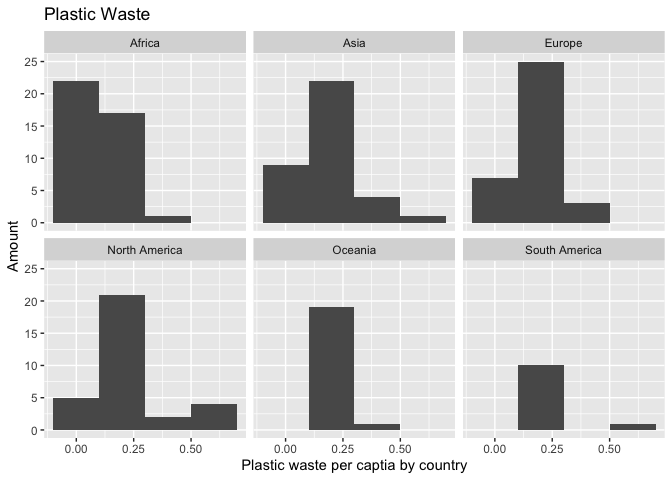
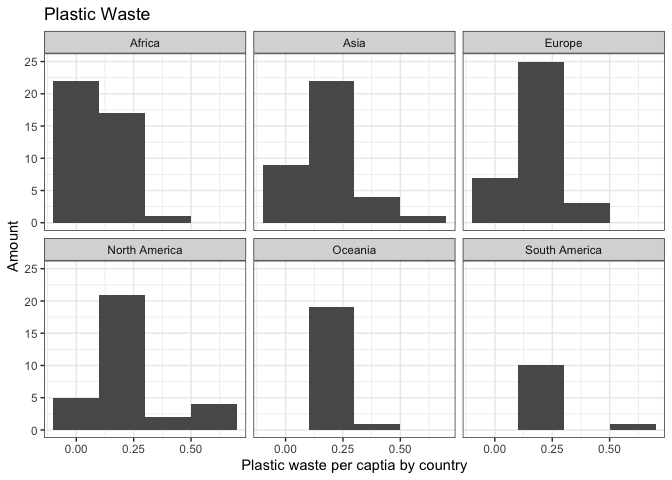
Final Version
Cleaned up some stuff. Made themes all black and white. Added name and date

diff --git a/lab-02.md b/lab-02.md
@@ -1,7 +1,7 @@
 Lab 02 - Plastic waste
 ================
-Insert your name here
-Insert date here
+Benjamin
+1/22/25
 
 ## Load packages and data
 
@@ -30,6 +30,7 @@ true_plastic <- plastic_waste %>%
 ggplot(data = true_plastic, aes(x = plastic_waste_per_cap)) +
   #To make them one graph by color, add in fill = continent after plastice_waste_per_cap
   geom_histogram(binwidth = 0.2) + facet_wrap(~continent) +
+  theme_bw()+
   labs(
       x = "Plastic waste per captia by country",
       y = "Amount",
@@ -49,6 +50,7 @@ ggplot(
   )
 ) +
   geom_density(alpha = 0.7) +
+  theme_bw()+
   labs(
       x = "Plastic waste per captia",
       y = "amount",
@@ -73,7 +75,8 @@ ggplot(
     fill = continent
   )
 ) +
-  geom_density(alpha = 0.1)
+  geom_density(alpha = 0.1)+
+theme_bw()
 ```
 
 ![](lab-02_files/figure-gfm/plastic-waste-density-1.png)<!-- -->
@@ -88,6 +91,7 @@ ggplot(
   )
 ) +
   geom_boxplot() +
+  theme_bw()+
 labs(
       x = "Plastic waste per captia",
       y = "amount",
@@ -114,6 +118,7 @@ ggplot(
   )
 ) +
  geom_violin() +
+  theme_bw()+
   labs(
       x = "Continent",
       y = "Plastic Waste",
@@ -138,6 +143,7 @@ ggplot(
   )
 ) +
   geom_point() +
+  theme_bw()+
 labs(
       x = "Mismanaged Plastic Waste",
       y = "Plastic Waste",
@@ -159,6 +165,7 @@ ggplot(
   )
 ) +
   geom_point() +
+  theme_bw()+
 labs(
       x = "Total Population",
       y = "Plastic Waste",
@@ -181,6 +188,7 @@ ggplot(
   )
 ) +
   geom_point() +
+  theme_bw()+
 labs(
       x = "Costal Population",
       y = "Plastic Waste",
